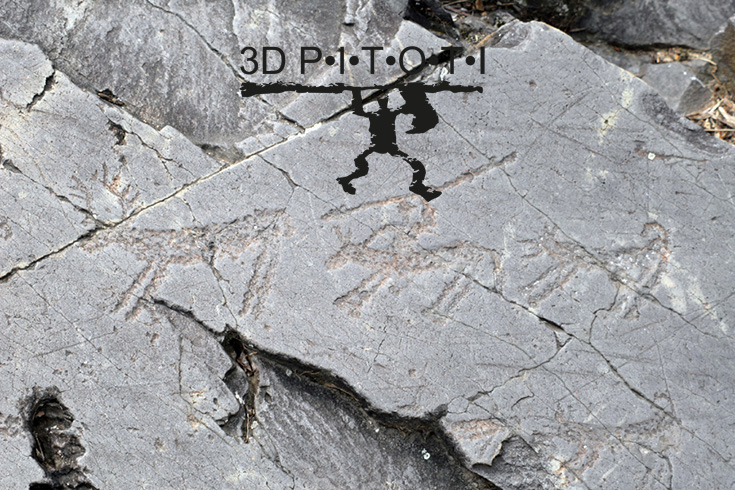
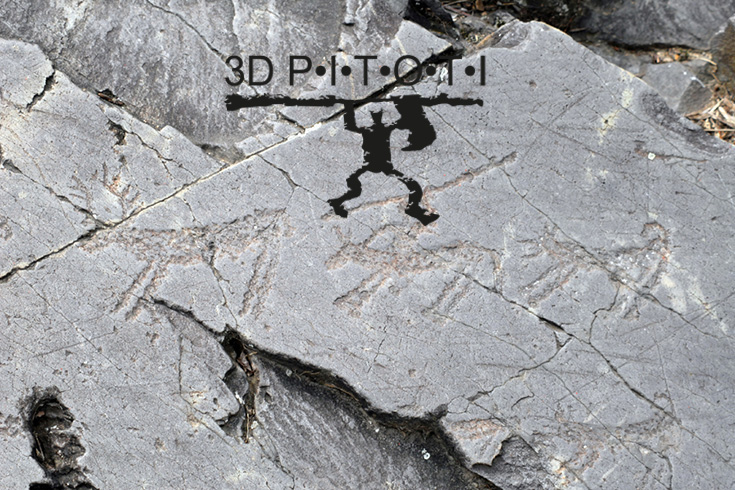
Responsive design changes

Changed region(s): [[0.2993, 0.0918, 0.6585, 0.4592]]

diff --git a/js/pitotiFinal.js b/js/pitotiFinal.js
@@ -1,0 +1,83 @@
+/**
+ * Created by DrTone on 14/05/2015.
+ */
+
+var TIMELINE_SLOTS = 4;
+var audio_context, recorder, recording = false;
+var linkNumber = 0;
+var audioClips = [];
+
+function __log(e, data) {
+    log.innerHTML += "\n" + e + " " + (data || '');
+}
+
+var videoPlayer = (function() {
+    var player;
+    var numVideos = sessionStorage.getItem('numVideos');
+    var vidPlayer;
+    var videoSources = ['videos/HuntSmall.mp4', 'videos/deersSmall.mp4', 'videos/HouseSmall.mp4'];
+    var checkInterval = 500;
+    var videoChecker;
+    var currentSlot = 0;
+    var gotClip = false;
+    var playingVideo = false;
+
+    return {
+        init: function() {
+            vidPlayer = document.getElementById("videoPlayer");
+        },
+
+        playBack: function() {
+            if(playingVideo) return;
+            playingVideo = true;
+            var clip, videoIndex;
+            while(!gotClip) {
+                clip = sessionStorage.getItem("timeline"+currentSlot);
+                if(clip) {
+                    gotClip = true;
+                    videoIndex = parseInt(clip.charAt(clip.length-1));
+                    if(isNaN(videoIndex)) continue;
+                    vidPlayer.src = videoSources[videoIndex];
+                    vidPlayer.play();
+                } else {
+                    if(++currentSlot >= TIMELINE_SLOTS) {
+                        currentSlot = 0;
+                        playingVideo = false;
+                        break;
+                    }
+                }
+            }
+            if(gotClip) {
+                videoChecker = setInterval(function() {
+                    if(vidPlayer.ended) {
+                        //See if any more clips
+                        if(++currentSlot >= TIMELINE_SLOTS) {
+                            currentSlot = 0;
+                            playingVideo = false;
+                            gotClip = false;
+                            clearInterval(videoChecker);
+                        } else {
+                            clip = sessionStorage.getItem("timeline"+currentSlot);
+                            if(clip) {
+                                videoIndex = parseInt(clip.charAt(clip.length-1));
+                                if(isNaN(videoIndex)) return;
+                                vidPlayer.src = videoSources[videoIndex];
+                                vidPlayer.play();
+                            }
+                        }
+                    }
+                }, checkInterval);
+            }
+        }
+    }
+})();
+
+$(document).ready(function() {
+    //Init
+    skel.init();
+    videoPlayer.init();
+
+    $('#playStory').on("click", function() {
+        videoPlayer.playBack();
+    });
+});

diff --git a/pitotiFinal.html b/pitotiFinal.html
@@ -7,7 +7,7 @@
     <script type="text/javascript" src="js/jquery-1.11.2.min.js"></script>
     <script type="text/javascript" src="js/recorder.js"></script>
     <script type="text/javascript" src="js/skel.min.js"></script>
-    <script type="text/javascript" src="js/pitotiRecord.js?v=0.2"></script>
+    <script type="text/javascript" src="js/pitotiFinal.js?v=0.1"></script>
 
     <link href="css/pitotiStyles.css?v=0.4" rel="stylesheet" type="text/css">
 </head>
@@ -16,43 +16,38 @@
 <div class="page">
     <div class="row 0%">
         <div class="3u">
-            <a href="pitotiTimeline.html"><img src="images/back.png"></a>
+            <a href="pitotiRecord.html"><img src="images/back.png"></a>
         </div>
 
         <div class="6u">
             <video id="videoPlayer" width="100%" controls>
 
             </video>
-            <div id="storyControls">
-                <div id="playStory">
-                    <img src="images/play.png">
-                </div>
-                <div id="recordStory" class="row 0%">
+            <div id="finalControls">
+                <div class="row 0%">
+                    <div id="playStory" class="4u">
+                        <img src="images/playStory.png">
+                    </div>
                     <div class="4u">
-                        <img src="images/record.png">
+                        &nbsp;
                     </div>
-                    <div class="2u">
-                        <img id="audioRecord" src="images/recordOff.png">
+                    <div class="4u">
+                        <img src="images/email.png">
                     </div>
-                    <div class="6u">
-                        <ul id="audioRecordings">
-
-                        </ul>
-                    </div>
-
+                </div>
+                <div>
+                    <a href="pitotiAR.html"><img src="images/createStory.png"></a>
                 </div>
             </div>
         </div>
 
         <div class="3u">
-            <a href="pitotiFinal.html"><img src="images/next.png"></a>
             <div class="bubble">
                 <img src="images/azirSpeech.png">
                 <div class="contents">
                     <p>
-                        Now record your<br>
-                        story! Click "Next"<br>
-                        when you are ready!
+                        Now see your<br>
+                        story!
                     </p>
                 </div>
             </div>

diff --git a/pitotiMenu.html b/pitotiMenu.html
@@ -5,51 +5,32 @@
     <title>Menu</title>
 
     <script type="text/javascript" src="js/jquery-1.11.2.min.js"></script>
-    <script type="text/javascript" src="js/skel.min.js"></script>
-    <script type="text/javascript" src="js/pitotiMenu.js?v=0.1"></script>
 
     <link href="css/pitotiStyles.css?v=0.4" rel="stylesheet" type="text/css">
 </head>
 <body>
 
 <div class="page">
-    <div id="logoMenu">
-        <div class="row 0%">
-            <div class="3u">
-                &nbsp
-            </div>
-            <div class="6u">
-                <img src="images/pitotiLogo.png">
-            </div>
-            <div class="3u">
-                <div id="aboutOption">
-                    <a href="pitotiAbout.html"><button class="actionButton">ABOUT</button></a>
-                </div>
-            </div>
+    <div id="menuOptions">
+        <div id="">
+            <a href="pitotiAbout.html"><button class="actionButton">ABOUT</button></a>
+        </div>
+        <div>
+            <a href="pitotiHotSpots.html"><button class="actionButton">LISTEN</button></a>
+        </div>
+        <div id="">
+            <a href="pitotiCreate.html"><button class="actionButton">CREATE</button></a>
         </div>
     </div>
 
-    <div class="row 0%">
-        <div class="3u">
-            &nbsp;
-        </div>
-        <div class="6u bubble">
-            <img src="images/azirSpeech.png">
-            <div class="contents">
-                <p>
-                    Choose what you<br>
-                    want to do by<br>
-                    clicking the options
-                </p>
-            </div>
-        </div>
-        <div class="3u">
-            <div>
-                <a href="pitotiHotSpots.html"><button class="actionButton">LISTEN</button></a>
-            </div>
-            <div id="createOption">
-                <a href="pitotiCreate.html"><button class="actionButton">CREATE</button></a>
-            </div>
+    <div class="bubble">
+        <img src="images/azirSpeech.png">
+        <div class="contents">
+            <p>
+                Choose what you<br>
+                want to do by<br>
+                clicking the options
+            </p>
         </div>
     </div>
 

diff --git a/pitotiWelcome.html b/pitotiWelcome.html
@@ -5,8 +5,6 @@
     <title>Welcome</title>
 
     <script type="text/javascript" src="js/jquery-1.11.2.min.js"></script>
-    <script type="text/javascript" src="js/skel.min.js"></script>
-    <script type="text/javascript" src="js/pitotiWelcome.js?v=0.1"></script>
 
     <link href="css/pitotiStyles.css?v=0.4" rel="stylesheet" type="text/css">
 
@@ -14,35 +12,21 @@
 <body>
 
 <div class="page">
-    <div id="welcomePage">
-        <div class="row 0%">
-            <div class="3u">
-                &nbsp;
-            </div>
-            <div class="6u">
-                <img src="images/pitotiLogo.png">
-            </div>
-            <div class="3u">
-                <div id="nextPage">
-                    <a href="pitotiMenu.html"><img src="images/next.png"></a>
-                </div>
-            </div>
-        </div>
+    <div id="nextPage">
+        <a href="pitotiMenu.html"><img src="images/next.png"></a>
     </div>
 
     <div id="welcomeAzir">
-        <div class="row 0%">
-            <div class="12u bubble">
-                <img src="images/azirSpeech.png">
-                <div class="contents">
-                    <p>
-                        I am Azir.<br>
-                        Welcome to the<br>
-                        3D-PITOTI<br>
-                        Stories of Rock Art<br>
-                        in Valcamonica
-                    </p>
-                </div>
+        <div class="bubble">
+            <img src="images/azirSpeech.png">
+            <div class="contents">
+                <p>
+                    I am Azir.<br>
+                    Welcome to the<br>
+                    3D-PITOTI<br>
+                    Stories of Rock Art<br>
+                    in Valcamonica
+                </p>
             </div>
         </div>
     </div>

diff --git a/pitoti.html b/pitoti.html
@@ -2,40 +2,24 @@
 <html>
 <head lang="en">
     <meta charset="UTF-8">
-    <title>3D Pitoti</title>
+    <title>Welcome to 3D Pitoti</title>
 
     <script type="text/javascript" src="js/jquery-1.11.2.min.js"></script>
-    <script type="text/javascript" src="js/skel.min.js"></script>
-    <script type="text/javascript" src="js/pitoti.js?v=0.1"></script>
 
     <link href="css/pitotiStyles.css?v=0.4" rel="stylesheet" type="text/css">
 </head>
 <body>
 
-<div class="page">
-    <div id="startPage">
-        <div class="row">
-            <div class="12u">
-                <img src="images/pitotiLogo.png">
-            </div>
-        </div>
-    </div>
+<div id="startPage">
 
     <div class="intro">
-        <div class="row">
-            <div class="12u">
-                <img src="images/IZIR.png">
-            </div>
-        </div>
+        <img src="images/IZIR.png">
     </div>
 
     <div id="start">
-        <div class="row">
-            <div class="12u">
-                <a href="pitotiWelcome.html"><button class="actionButton">START</button></a>
-            </div>
-        </div>
+        <a href="pitotiWelcome.html"><button class="actionButton">START</button></a>
     </div>
+
 </div>
 
 </body>

diff --git a/css/pitotiStyles.css b/css/pitotiStyles.css
@@ -57,10 +57,6 @@ body {
     font-family: "Calibri", sans-serif;
     font-size: 1.3vw;
 }
-/* Start page */
-#startPage img {
-    width: 35%;
-}
 /* Animations */
 @-webkit-keyframes bounce {
     0% {
@@ -75,6 +71,16 @@ body {
         -webkit-transform: translate(0px, 0px);
     }
 }
+/* PAGES */
+
+/* Start page */
+#startPage {
+    margin-top: 300px;
+    text-align: center;
+}
+#startPage img {
+    width: 25%;
+}
 .intro {
     -webkit-animation-name: bounce;
     -webkit-animation-timing-function: linear;
@@ -86,18 +92,22 @@ body {
 }
 
 /* Welcome page */
-#welcomePage img {
-    width: 65%;
-}
 #welcomeAzir {
-    margin-top: -10%;
+    margin-top: 5%;
 }
 #welcomeAzir img {
     width: 40%;
 }
-#nextPage img {
-    width: 50%
+#nextPage {
+    text-align: right;
+    margin-right: 2%;
 }
+#nextPage img {
+    width: 15%
+}
+
+
+
 
 /* Menu page */
 #logoMenu img {
@@ -115,10 +125,9 @@ body {
 }
 /* About page */
 
-
-
-
-
+#finalControls {
+    text-align: left;
+}
 
 #stories {
     background: none;
